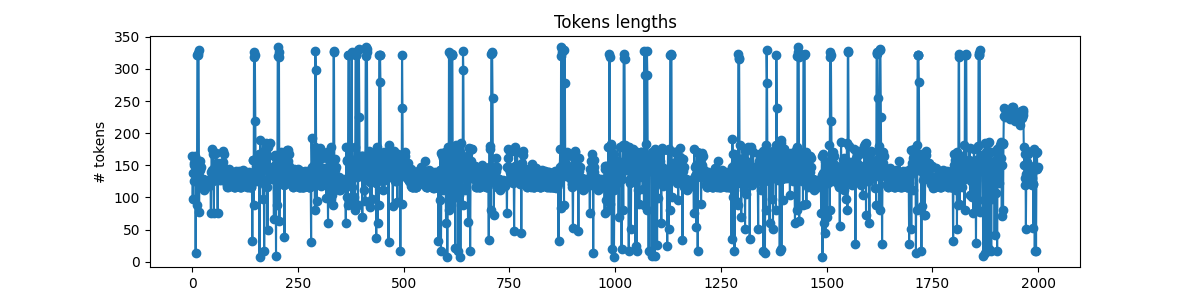
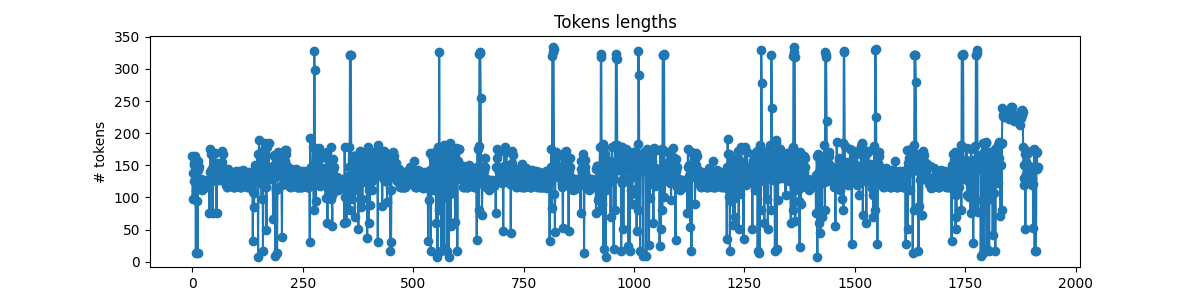
llamaindex: cleaning code

diff --git a/app/db/index_documents.py b/app/db/index_documents.py
@@ -9,121 +9,23 @@ from llama_index.core.node_parser import SentenceSplitter
 from ..config.settings import settings, logger
 
 
-text_splitter = RecursiveCharacterTextSplitter(
-    separators=["\n\n", "\n", " ", ""],
-    chunk_size=300,
-    chunk_overlap=50,
-    length_function=len,
-)
-
-json_text_splitter = RecursiveCharacterTextSplitter(
-    separators=[',', ':', ' ', ''],
-    chunk_size=600,
-    chunk_overlap=50,
-    length_function=len
-)
-
-
-def extract_text_from_pdf(pdf_path):
-    logger.info(f"Extracting text from PDF: {pdf_path}")
-    doc = fitz.open(pdf_path)
-    text = ""
-    for page in doc:
-        text += page.get_text()
-    return text
-
-
-def index_pdf(pdf_path, embedding_model,
-              es_client, index_name=settings.index_name):
-    logger.info(f"Indexing PDF: {pdf_path}")
-    text = extract_text_from_pdf(pdf_path)
-    chunks = text_splitter.create_documents(
-        texts=[text],
-        metadatas=[{"source": os.path.basename(pdf_path)}]
-    )
-    for chunk in chunks:
-        content = chunk.page_content
-        metadata = chunk.metadata
-        embedding = embedding_model.encode(content).tolist()
-        es_client.index(
-            index=index_name,
-            body={
-                "content": content,
-                "embedding": embedding,
-                "metadata": metadata
-            }
-        )
-        logger.info(f"Chunk indexed: {content[:30]}...")
-    es_client.indices.refresh(index=index_name)
-    logger.info(f"PDF {os.path.basename(pdf_path)} indexed successfully.")
-
-
-def create_documents_from_json(data: dict,
-                               text_splitter=json_text_splitter):
-    documents = []
-
-    for entry in data.get("entry", []):
-        if "resource" in entry:
-            resource = entry["resource"]
-            resource_type = resource.get("resourceType")
-            resource_id = resource.get("id")
-
-            entry_text = json.dumps(resource)
-
-            chunks = text_splitter.split_text(entry_text)
-            for chunk in chunks:
-                documents.append(Document(
-                    text=chunk.replace('\"', '').replace('\\', ''),
-                    metadata={"resourceType": resource_type,
-                              "resource_id": resource_id}
-                ))
-    return documents
-
-
-def bulk_load_from_lamaindex_documents(documents,
+def bulk_load_from_json_flattened_file(data: dict,
                                        embedding_model,
                                        index_name):
     """
-    Function to load in bulk mode a JSON file FHIR for first time
+    Function to load in bulk mode a FHIR JSON flattened file
     """
-    for document in documents:
-        resource_type = document.metadata("resourceType")
-        resource_id = document.metadata("resource_id")
-        document_text = document.text
-        document_embedding = embedding_model.encode(document_text)
+    for _, value in data.items():
+        file_name = value.get("file_name")
+        text_chunk = value.get("text_chunk")
+        embedding = embedding_model.encode(text_chunk)
         yield {
             "_index": index_name,
             "_source": {
-                "content": document_text,
-                "embedding": document_embedding,
+                "content": text_chunk,
+                "embedding": embedding,
                 "metadata": {
-                    "resourceType": resource_type,
-                    "resource_id": resource_id
+                    "file_name": file_name
                 }
             }
         }
-
-
-def bulk_load_from_json_file(data: dict,
-                             embedding_model,
-                             index_name):
-    """
-    Function to load in bulk mode a JSON file FHIR for first time
-    """
-    for entry in data.get("entry", []):
-        if "resource" in entry:
-            resource_type = entry.get("resourceType")
-            resource_id = entry.get("resource_id")
-            node_text = entry.get("resource")
-            node_embedding = embedding_model.encode(node_text)
-            yield {
-                "_index": index_name,
-                "_source": {
-                    "content": node_text,
-                    "embedding": node_embedding,
-                    "metadata": {
-                        "resourceType": resource_type,
-                        "resource_id": resource_id
-                    }
-                }
-            }

diff --git a/app/main.py b/app/main.py
@@ -5,8 +5,7 @@ from elasticsearch import helpers
 from fastapi import FastAPI, HTTPException, UploadFile, File
 from fastapi.responses import JSONResponse
 
-from .db.index_documents import index_pdf, \
-    bulk_load_from_json_file, bulk_load_from_lamaindex_documents
+from .db.index_documents import bulk_load_from_json_flattened_file
 from .config.elasticsearch_config import create_index_if_not_exists
 from .services.search_documents import search_query
 from .services.process_search_output import process_search_output, \
@@ -44,9 +43,9 @@ async def bulk_load(file: UploadFile = File(...)):
     # Bulk load to Elasticsearch
     try:
         helpers.bulk(es_client,
-                     bulk_load_from_json_file(json_data,
-                                              embedding_model,
-                                              settings.index_name))
+                     bulk_load_from_json_flattened_file(json_data,
+                                                        embedding_model,
+                                                        settings.index_name))
         logger.info(f"Bulk load completed for file: {file.filename}")
         return {"status": "success", "filename": file.filename}
     except Exception as e:

diff --git a/app/config/elasticsearch_config.py b/app/config/elasticsearch_config.py
@@ -1,4 +1,5 @@
 from elasticsearch import Elasticsearch
+from llama_index.vector_stores.elasticsearch import ElasticsearchStore
 
 from .settings import settings, logger
 
@@ -9,7 +10,7 @@ def get_es_client():
         basic_auth=(settings.es_user, settings.es_password),
         max_retries=10,
     )
-    
+
 
 def get_mapping():
     return {
@@ -28,7 +29,7 @@ def get_mapping():
             }
         }
     }
-    
+
 
 def create_index_if_not_exists(index_name):
     es_client = get_es_client()
